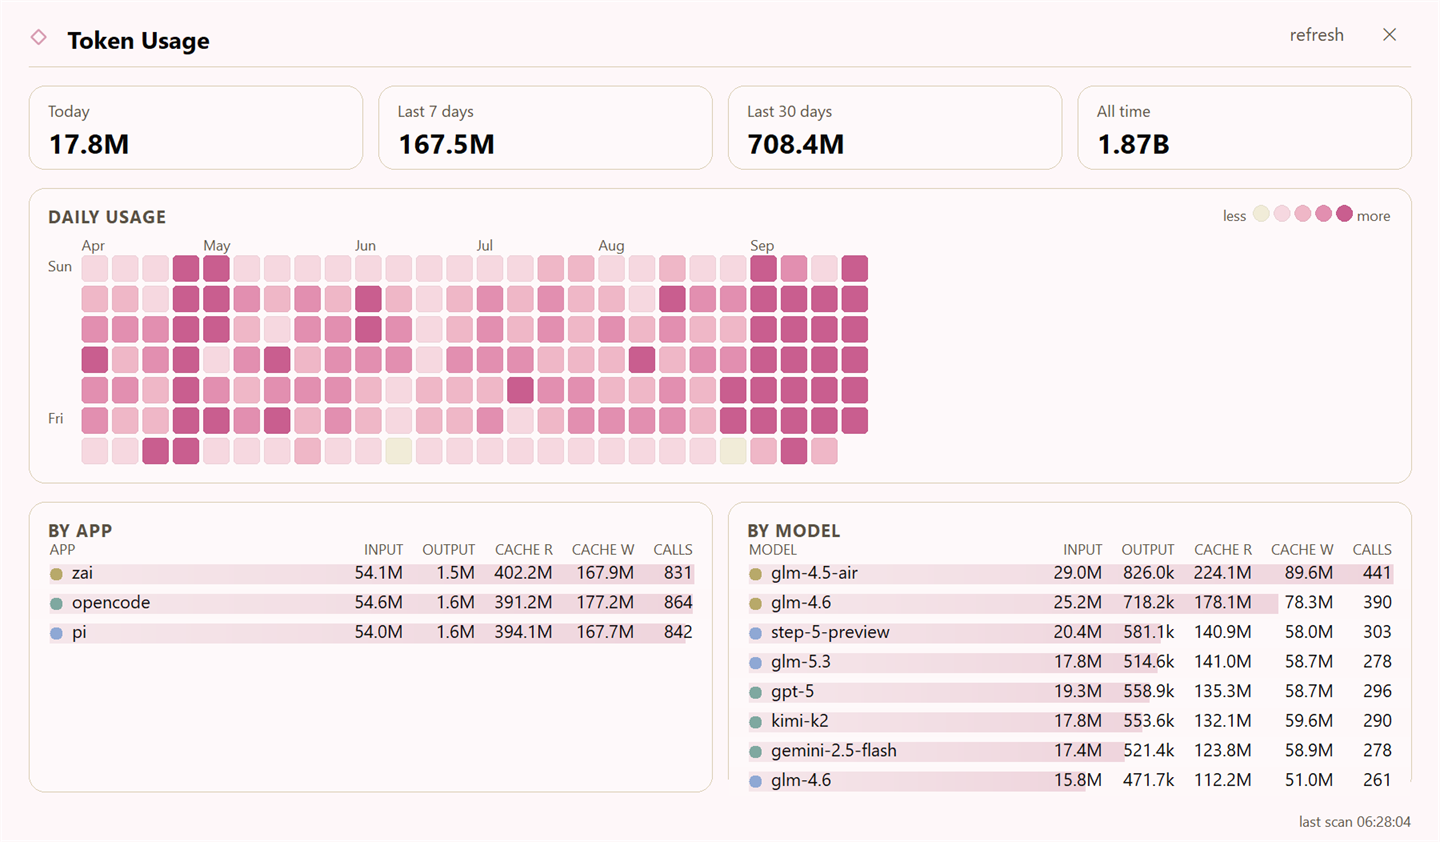
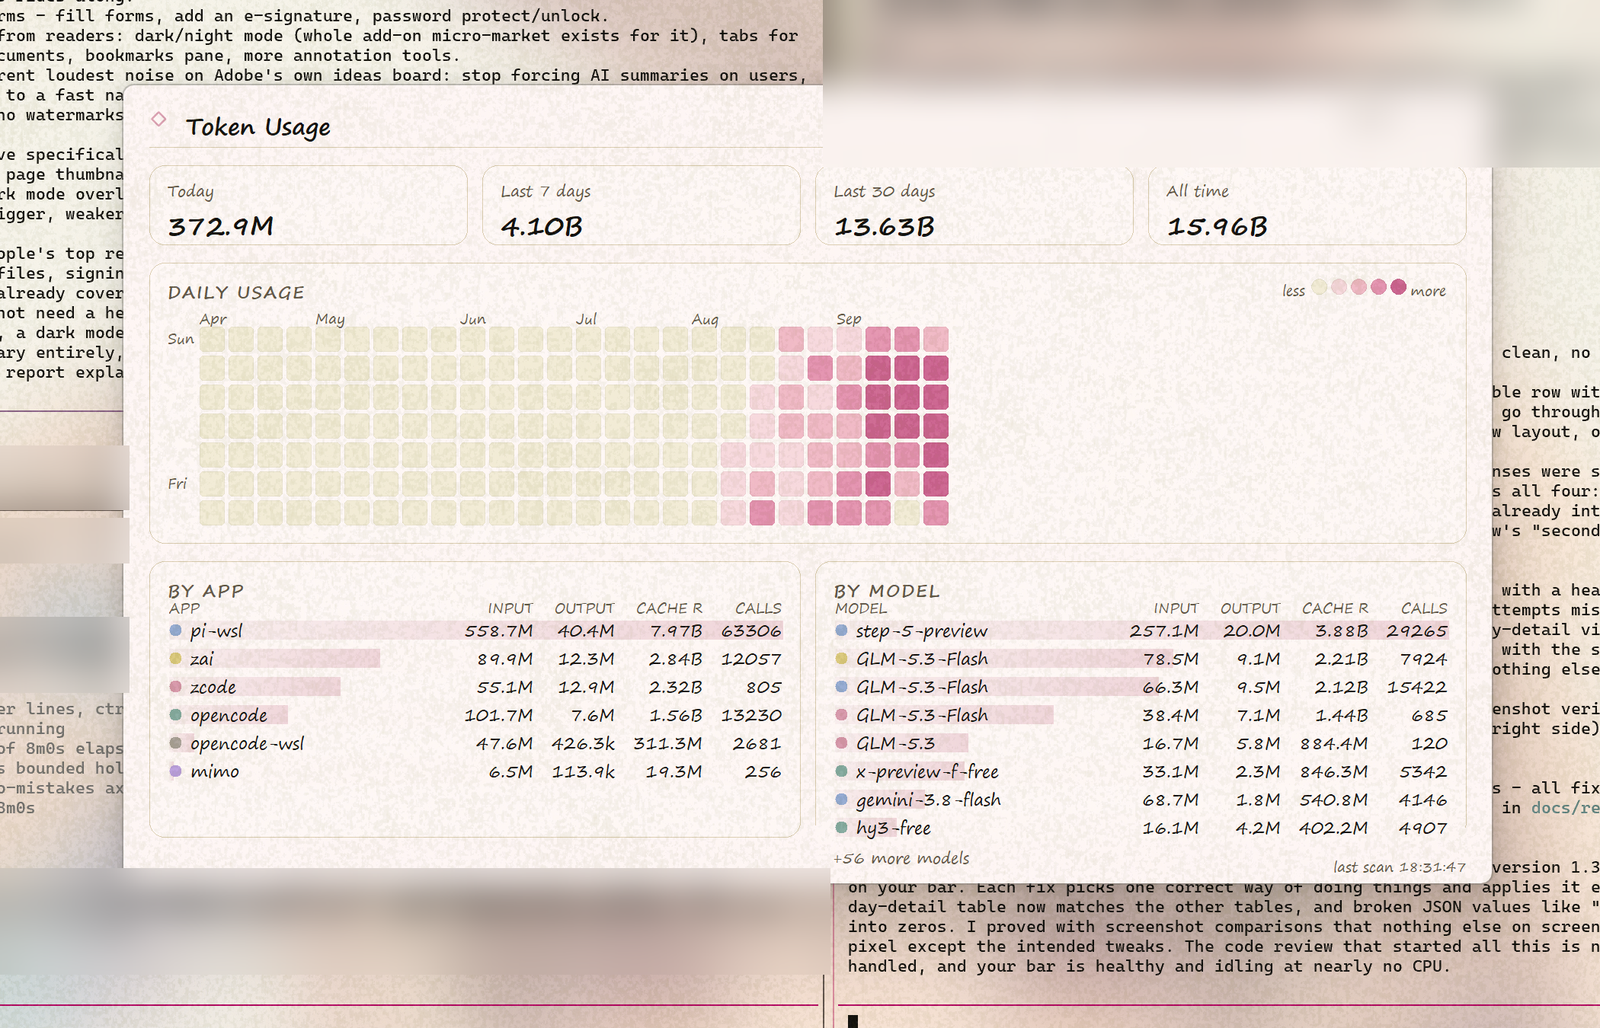
README: real screenshots; tighten the intro wording
- the two stale dashboard photos are replaced with live captures of
  v1.3.0: the token dashboard and the subscription board, cropped to
  the board with a margin of the surrounding terminal
- a new shot of the bar itself on top of a working terminal (kept
  un-cropped so the setup reads as a whole; usernames, paths, project
  names, model/cost status lines and tool-call transcripts are blurred)
- the intro paragraph keeps the revised structure with grammar,
  spelling and formatting cleaned up

diff --git a/README.md b/README.md
@@ -1,8 +1,12 @@
 # Chocobar
 
-Chocobar is a small bar that sticks to the top of your terminal window. It shows your computer's CPU, memory, temperature, battery etc ,with tokens and coding subscriptio tracked. Its a lightweight bar about **30 MB of memory** and **4-5% of one CPU core** . for customiztion of the bar there is config.json. all data from the bar is local. Once you switch a subscription plan on, it asks that plan's own website how much quota you have left, using the login that plan already saved here.
+Chocobar is a small bar that sticks to the top of your terminal window. It shows your computer's CPU, memory, temperature, battery and more, plus your token usage and coding subscriptions at a glance. It is lightweight - about **30 MB of memory** and **4-5% of one CPU core** - so it can sit on your screen all day. Customization lives in one plain text file, `config.json`. All data stays local: the bar reads the logs your tools already write on your disk and never uploads anything. Once you switch a subscription plan on, it asks that plan's own website how much quota you have left, using the login that plan already saved here.
 
 ## What it looks like
+
+The bar, doing its job on top of a working terminal:
+
+![The chocobar bar on top of a terminal](docs/img/bar-terminal.png)
 
 The token dashboard - how many tokens you used today, this week, and over time, with a heatmap and a per-app breakdown:
 
